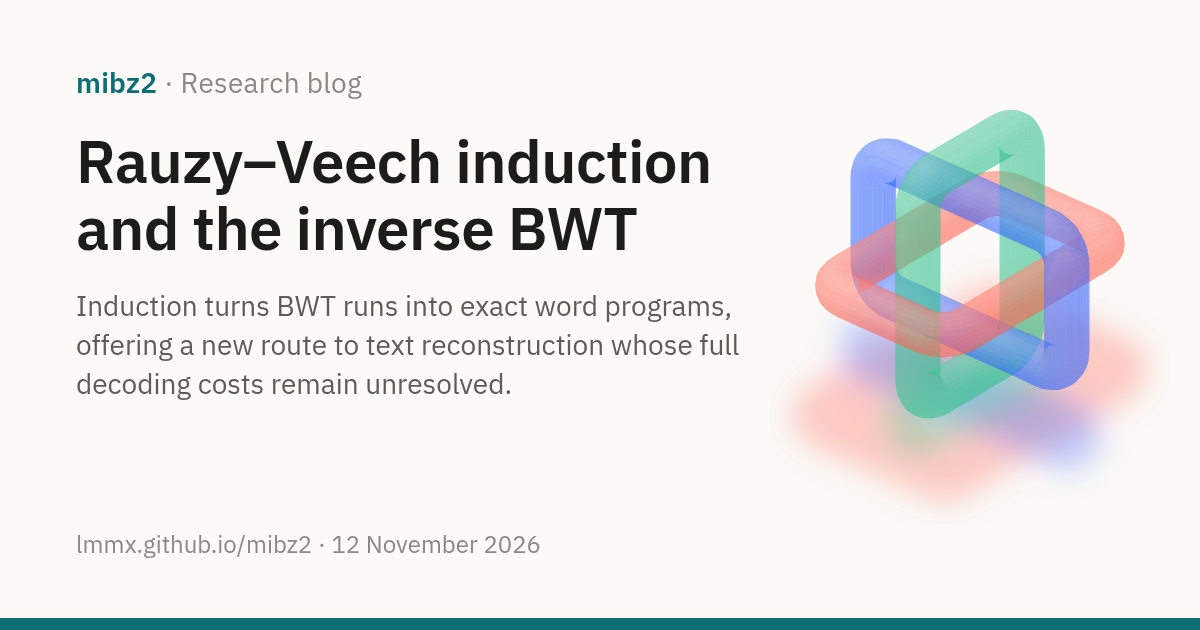
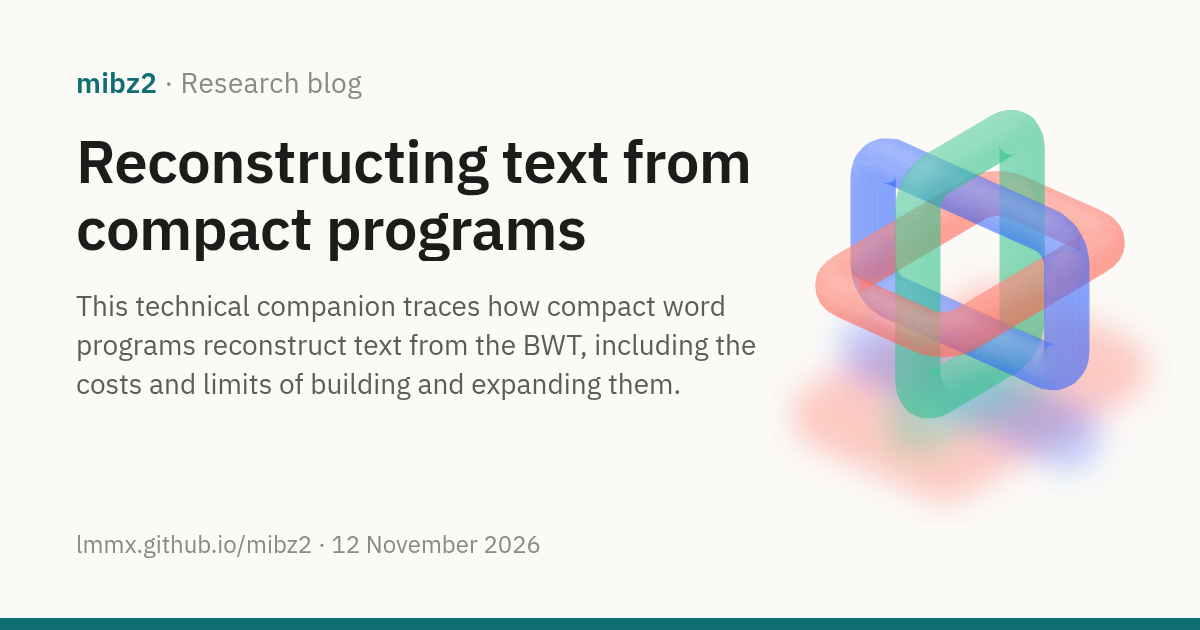
docs: focus companion on reconstruction and align interval arrowheads

Changed region(s): [[0.0617, 0.2111, 0.6475, 0.4222], [0.0617, 0.4524, 0.6475, 0.6333]]

diff --git a/docs/site/blog/2026-11-12-rauzy-technical-companion.md b/docs/site/blog/2026-11-12-rauzy-technical-companion.md
@@ -1,7 +1,7 @@
 ---
-title: "Rauzy–Veech induction and the inverse BWT"
+title: "Reconstructing text from compact programs"
 image: assets/social/blog-2026-11-12-rauzy-technical-companion.png
-description: "Induction turns BWT runs into exact word programs, offering a new route to text reconstruction whose full decoding costs remain unresolved."
+description: "This technical companion traces how compact word programs reconstruct text from the BWT, including the costs and limits of building and expanding them."
 ---
 
 <div class="post-hero" markdown>
@@ -10,9 +10,9 @@ description: "Induction turns BWT runs into exact word programs, offering a new 
 [mibz2 · Research blog](index.md)
 {: .post-kicker }
 
-# Rauzy–Veech induction and the inverse BWT
+# Reconstructing text from compact programs
 
-Induction turns BWT runs into exact word programs, offering a new route to text reconstruction whose full decoding costs remain unresolved.
+This technical companion traces how compact word programs reconstruct text from the BWT, including the costs and limits of building and expanding them.
 {: .post-dek }
 
 12 November 2026 · 32 min read · [Research in progress](#10-where-the-live-diagnostic-fits)
@@ -22,7 +22,7 @@ Induction turns BWT runs into exact word programs, offering a new route to text 
 <div class="post-hero-art"><img src="../assets/images/hero.svg" alt=""></div>
 </div>
 
-[A new way back from the BWT](2026-11-10-rauzy-veech-reconstruction.md) introduced Cells: an experimental inverse transform built from interval induction and word rules. This detailed companion preserves the 12 November technical report, including the distinct delimiter-based first-return research and the full construction and memory costs. The [8 November mathematical article](2026-11-08-inverse-bwt-navigation.md) established the underlying run translations.
+[A new way back from the BWT](2026-11-10-rauzy-veech-reconstruction.md) already introduced the interval-exchange structure and Rauzy–Veech machinery behind Cells, an experimental inverse transform. This technical companion develops the reconstruction programme in full: how compact word rules can recover the original text, what building and expanding those rules costs, and what the evidence means for a complete decoder. It preserves the 12 November report’s worked constructions, memory analysis and qualifications, keeping endpoint Cells separate from delimiter-based first-return research. The [8 November mathematical article](2026-11-08-inverse-bwt-navigation.md) established the underlying run translations.
 
 The Burrows–Wheeler transform (BWT) reorders a block into the last column of its sorted cyclic rotations and records the original row. A run is a maximal stretch of equal bytes in that column. LF, the last-to-first map, is a translation on each run; induction composes those translations into return maps and records their exact emitted words. MONODROMY is the project’s mathematical research programme, whose [journal](https://github.com/lmmx/mibz2/blob/2635f04e9155dd31388b24fd3f7248f87b3ddcda/docs/journal/monodromy/2026-11-10-rauzy-veech.md) supplies the formal construction. Here the mathematical detail is retained alongside the distinction between a counted reduction and a measured decoding gain.
 
@@ -164,7 +164,7 @@ Here an interval $[a,b)$ consists of the integer rows $a,a+1,\ldots,b-1$; the co
 
 <figure class="bf-fig" id="rv-exchange">
 <p class="bf-title">Two orders, one interval exchange</p>
-<svg xmlns="http://www.w3.org/2000/svg" viewBox="0 0 540 450" role="img" aria-labelledby="rv-exchange-title rv-exchange-desc"><title id="rv-exchange-title">Two orders, one interval exchange</title><desc id="rv-exchange-desc">Top A length 2, B length 3, C length 1; bottom C,A,B on the same 0 to 6 scale. A and B translate by +1, C by −5.</desc><text x="26" y="30" class="bf-t-strong" text-anchor="start" style="font-size:24px">Same coordinate domain [0, 6)</text><text x="26" y="66" class="bf-t" text-anchor="start" style="font-size:22px">Top: domain intervals</text><rect x="66" y="86" width="136" height="46" class="bf-card-hi" /><text x="134.0" y="116" class="bf-t-strong" text-anchor="middle" style="font-size:24px">A</text><rect x="202" y="86" width="204" height="46" class="bf-pill-ready" /><text x="304.0" y="116" class="bf-t-strong" text-anchor="middle" style="font-size:24px">B</text><rect x="406" y="86" width="68" height="46" class="bf-pill-next" /><text x="440.0" y="116" class="bf-t-strong" text-anchor="middle" style="font-size:24px">C</text><text x="26" y="315" class="bf-t" text-anchor="start" style="font-size:22px">Bottom: image intervals</text><rect x="66" y="240" width="68" height="46" class="bf-pill-next" /><text x="100.0" y="270" class="bf-t-strong" text-anchor="middle" style="font-size:24px">C</text><rect x="134" y="240" width="136" height="46" class="bf-card-hi" /><text x="202.0" y="270" class="bf-t-strong" text-anchor="middle" style="font-size:24px">A</text><rect x="270" y="240" width="204" height="46" class="bf-pill-ready" /><text x="372.0" y="270" class="bf-t-strong" text-anchor="middle" style="font-size:24px">B</text><path d="M134 138L202 232" class="bf-arrow" /><path d="M197 223L202 232L207 223" class="bf-arrow"/><path d="M304 138L372 232" class="bf-arrow" /><path d="M367 223L372 232L377 223" class="bf-arrow"/><path d="M440 138L100 232" class="bf-arrow" /><path d="M95 223L100 232L105 223" class="bf-arrow"/><text x="66" y="354" class="bf-tm" text-anchor="middle" style="font-size:19px">0</text><text x="134" y="354" class="bf-tm" text-anchor="middle" style="font-size:19px">1</text><text x="202" y="354" class="bf-tm" text-anchor="middle" style="font-size:19px">2</text><text x="270" y="354" class="bf-tm" text-anchor="middle" style="font-size:19px">3</text><text x="338" y="354" class="bf-tm" text-anchor="middle" style="font-size:19px">4</text><text x="406" y="354" class="bf-tm" text-anchor="middle" style="font-size:19px">5</text><text x="474" y="354" class="bf-tm" text-anchor="middle" style="font-size:19px">6</text><text x="26" y="397" class="bf-t" text-anchor="start" style="font-size:22px">A: +1     B: +1     C: −5</text><text x="26" y="435" class="bf-t" text-anchor="start" style="font-size:22px">Translation preserves point order.</text></svg>
+<svg xmlns="http://www.w3.org/2000/svg" viewBox="0 0 540 450" role="img" aria-labelledby="rv-exchange-title rv-exchange-desc"><title id="rv-exchange-title">Two orders, one interval exchange</title><desc id="rv-exchange-desc">Top A length 2, B length 3, C length 1; bottom C,A,B on the same 0 to 6 scale. A and B translate by +1, C by −5.</desc><text x="26" y="30" class="bf-t-strong" text-anchor="start" style="font-size:24px">Same coordinate domain [0, 6)</text><text x="26" y="66" class="bf-t" text-anchor="start" style="font-size:22px">Top: domain intervals</text><rect x="66" y="86" width="136" height="46" class="bf-card-hi" /><text x="134.0" y="116" class="bf-t-strong" text-anchor="middle" style="font-size:24px">A</text><rect x="202" y="86" width="204" height="46" class="bf-pill-ready" /><text x="304.0" y="116" class="bf-t-strong" text-anchor="middle" style="font-size:24px">B</text><rect x="406" y="86" width="68" height="46" class="bf-pill-next" /><text x="440.0" y="116" class="bf-t-strong" text-anchor="middle" style="font-size:24px">C</text><text x="26" y="315" class="bf-t" text-anchor="start" style="font-size:22px">Bottom: image intervals</text><rect x="66" y="240" width="68" height="46" class="bf-pill-next" /><text x="100.0" y="270" class="bf-t-strong" text-anchor="middle" style="font-size:24px">C</text><rect x="134" y="240" width="136" height="46" class="bf-card-hi" /><text x="202.0" y="270" class="bf-t-strong" text-anchor="middle" style="font-size:24px">A</text><rect x="270" y="240" width="204" height="46" class="bf-pill-ready" /><text x="372.0" y="270" class="bf-t-strong" text-anchor="middle" style="font-size:24px">B</text><path d="M134 138L202 232" class="bf-arrow" /><path d="M197 223L202 232L207 223" class="bf-arrow" transform="rotate(-35.882137 202 232)"/><path d="M304 138L372 232" class="bf-arrow" /><path d="M367 223L372 232L377 223" class="bf-arrow" transform="rotate(-35.882137 372 232)"/><path d="M440 138L100 232" class="bf-arrow" /><path d="M95 223L100 232L105 223" class="bf-arrow" transform="rotate(74.545444 100 232)"/><text x="66" y="354" class="bf-tm" text-anchor="middle" style="font-size:19px">0</text><text x="134" y="354" class="bf-tm" text-anchor="middle" style="font-size:19px">1</text><text x="202" y="354" class="bf-tm" text-anchor="middle" style="font-size:19px">2</text><text x="270" y="354" class="bf-tm" text-anchor="middle" style="font-size:19px">3</text><text x="338" y="354" class="bf-tm" text-anchor="middle" style="font-size:19px">4</text><text x="406" y="354" class="bf-tm" text-anchor="middle" style="font-size:19px">5</text><text x="474" y="354" class="bf-tm" text-anchor="middle" style="font-size:19px">6</text><text x="26" y="397" class="bf-t" text-anchor="start" style="font-size:22px">A: +1     B: +1     C: −5</text><text x="26" y="435" class="bf-t" text-anchor="start" style="font-size:22px">Translation preserves point order.</text></svg>
 <figcaption>Illustrative interval exchange, not a particular BWT block. Equal letters have equal widths in both rows. Arrows join corresponding interval centres; every point of an interval receives the same translation without reversal.</figcaption>
 </figure>
 

diff --git a/docs/site/blog/index.md b/docs/site/blog/index.md
@@ -8,7 +8,7 @@ What mibz2's experiments are finding, and where they go next. The evidence behin
 post is in the [journals](../background/journals.md) and the pull requests they link.
 
 <div class="post-list">
-<a class="post-card" href="2026-11-12-rauzy-technical-companion.md"><img src="../assets/social/blog-2026-11-12-rauzy-technical-companion.png" alt="" loading="lazy"><span class="post-card-text"><span class="post-card-date">12 November 2026 · Research in progress</span><span class="post-card-title">Rauzy–Veech induction and the inverse BWT</span><span class="post-card-dek">Induction turns BWT runs into exact word programs, offering a new route to text reconstruction whose full decoding costs remain unresolved.</span></span></a>
+<a class="post-card" href="2026-11-12-rauzy-technical-companion.md"><img src="../assets/social/blog-2026-11-12-rauzy-technical-companion.png" alt="" loading="lazy"><span class="post-card-text"><span class="post-card-date">12 November 2026 · Research in progress</span><span class="post-card-title">Reconstructing text from compact programs</span><span class="post-card-dek">This technical companion traces how compact word programs reconstruct text from the BWT, including the costs and limits of building and expanding them.</span></span></a>
 <a class="post-card" href="2026-11-10-rauzy-veech-reconstruction.md"><img src="../assets/social/blog-2026-11-10-rauzy-veech-reconstruction.png" alt="" loading="lazy"><span class="post-card-text"><span class="post-card-date">10 November 2026 · Research in progress</span><span class="post-card-title">A new way back from the BWT</span><span class="post-card-dek">An experimental mibz2 kernel rebuilds bzip2 text without a row-by-row walk, from reusable word rules that form the block's Lyndon tree.</span></span></a>
 <a class="post-card" href="2026-11-09-pit-crew-service-threads.md"><img src="../assets/social/blog-2026-11-09-pit-crew-service-threads.png" alt="" loading="lazy"><span class="post-card-text"><span class="post-card-date">9 November 2026 · Research in progress</span><span class="post-card-title">mibz2 gets a pit crew</span><span class="post-card-dek">Handing each block's serial steps to two dedicated threads gives mibz2 a rare double win, decoding 4.5% faster on ten cores with 13% less CPU.</span></span></a>
 <a class="post-card" href="2026-11-08-bwt-runs-from-mtf-codes.md"><img src="../assets/social/blog-2026-11-08-bwt-runs-from-mtf-codes.png" alt="" loading="lazy"><span class="post-card-text"><span class="post-card-date">8 November 2026 · Open question</span><span class="post-card-title">Reading the BWT's runs off bzip2's move-to-front codes</span><span class="post-card-dek">bzip2's move-to-front codes mark where each run of the BWT's last column starts, so the runs could be listed without writing the column. It is not built.</span></span></a>
